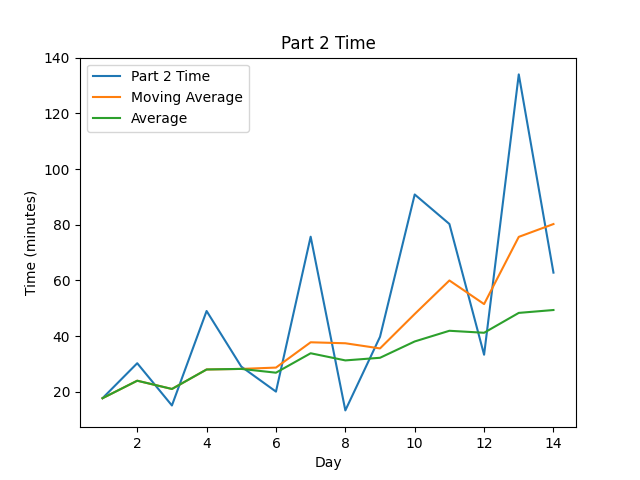
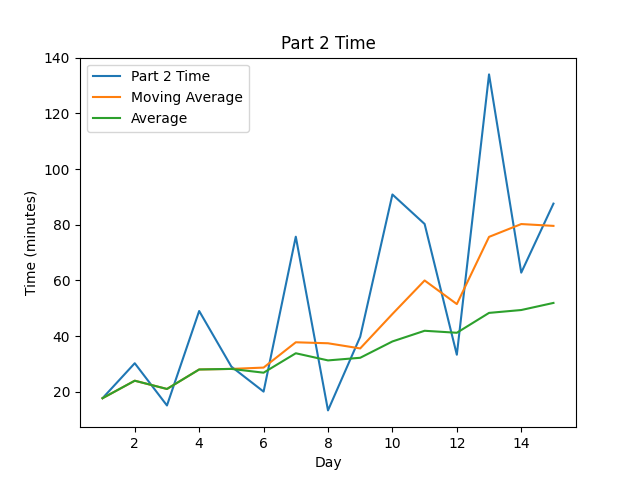
Day 15 ✅

diff --git a/src/day15/solution.ts b/src/day15/solution.ts
@@ -1,0 +1,21 @@
+import { inputAsNumArray } from '../utils/InputProcessor';
+
+const findMemAt = (input: number[], at: number): number => {
+  let lastNum = input[input.length - 1];
+  const lastSpoken = new Array(at);
+  input.forEach((val, i) => (lastSpoken[val] = i + 1));
+
+  for (let i = input.length; i < at; i++) {
+    const newNum = lastSpoken[lastNum] ? i - lastSpoken[lastNum] : 0;
+    lastSpoken[lastNum] = i;
+    lastNum = newNum;
+  }
+  return lastNum;
+};
+
+export const part1 = (input: number[]): number => findMemAt(input, 2020);
+
+export const part2 = (input: number[]): number => findMemAt(input, 30000000);
+
+const input = inputAsNumArray('src/day15/input.txt', ',');
+console.log(`Day 15:\n  Part 1:  ${part1(input)}\n  Part 2:  ${part2(input)}`);

diff --git a/src/day15/__tests__/dayTest.ts b/src/day15/__tests__/dayTest.ts
@@ -1,0 +1,21 @@
+import { part1, part2 } from '../solution';
+import { inputAsStringArray } from '../../utils/InputProcessor';
+
+const input = inputAsStringArray('src/day15/input.txt');
+
+const inputExample = [''];
+
+describe('day 15', () => {
+  it('should solve part 1 with example input', () => {
+    expect(part1(inputExample)).toBe(127);
+  });
+  it('should solve part 1 with my assigned input', () => {
+    expect(part1(input)).toBe(393911906);
+  });
+  it('should solve part 2 with example input', () => {
+    expect(part2(inputExample)).toBe(62);
+  });
+  it('should solve part 2 with my assigned input', () => {
+    expect(part2(input)).toBe(59341885);
+  });
+});

diff --git a/src/day15/README.md b/src/day15/README.md
@@ -1,0 +1,60 @@
+\--- Day 15: Rambunctious Recitation ---
+----------------------------------------
+
+You catch the airport shuttle and try to book a new flight to your vacation island. Due to the storm, all direct flights have been cancelled, but a route is available to get around the storm. You take it.
+
+While you wait for your flight, you decide to check in with the Elves back at the North Pole. They're playing a _memory game_ and are ever so excited to explain the rules!
+
+In this game, the players take turns saying _numbers_. They begin by taking turns reading from a list of _starting numbers_ (your puzzle input). Then, each turn consists of considering the _most recently spoken number_:
+
+*   If that was the _first_ time the number has been spoken, the current player says _`0`_.
+*   Otherwise, the number had been spoken before; the current player announces _how many turns apart_ the number is from when it was previously spoken.
+
+So, after the starting numbers, each turn results in that player speaking aloud either _`0`_ (if the last number is new) or an _age_ (if the last number is a repeat).
+
+For example, suppose the starting numbers are `0,3,6`:
+
+*   _Turn 1_: The `1`st number spoken is a starting number, _`0`_.
+*   _Turn 2_: The `2`nd number spoken is a starting number, _`3`_.
+*   _Turn 3_: The `3`rd number spoken is a starting number, _`6`_.
+*   _Turn 4_: Now, consider the last number spoken, `6`. Since that was the first time the number had been spoken, the `4`th number spoken is _`0`_.
+*   _Turn 5_: Next, again consider the last number spoken, `0`. Since it _had_ been spoken before, the next number to speak is the difference between the turn number when it was last spoken (the previous turn, `4`) and the turn number of the time it was most recently spoken before then (turn `1`). Thus, the `5`th number spoken is `4 - 1`, _`3`_.
+*   _Turn 6_: The last number spoken, `3` had also been spoken before, most recently on turns `5` and `2`. So, the `6`th number spoken is `5 - 2`, _`3`_.
+*   _Turn 7_: Since `3` was just spoken twice in a row, and the last two turns are `1` turn apart, the `7`th number spoken is _`1`_.
+*   _Turn 8_: Since `1` is new, the `8`th number spoken is _`0`_.
+*   _Turn 9_: `0` was last spoken on turns `8` and `4`, so the `9`th number spoken is the difference between them, _`4`_.
+*   _Turn 10_: `4` is new, so the `10`th number spoken is _`0`_.
+
+(The game ends when the Elves get sick of playing or dinner is ready, whichever comes first.)
+
+Their question for you is: what will be the _`2020`th_ number spoken? In the example above, the `2020`th number spoken will be `436`.
+
+Here are a few more examples:
+
+*   Given the starting numbers `1,3,2`, the `2020`th number spoken is `1`.
+*   Given the starting numbers `2,1,3`, the `2020`th number spoken is `10`.
+*   Given the starting numbers `1,2,3`, the `2020`th number spoken is `27`.
+*   Given the starting numbers `2,3,1`, the `2020`th number spoken is `78`.
+*   Given the starting numbers `3,2,1`, the `2020`th number spoken is `438`.
+*   Given the starting numbers `3,1,2`, the `2020`th number spoken is `1836`.
+
+Given your starting numbers, _what will be the `2020`th number spoken?_
+
+
+
+The first half of this puzzle is complete! It provides one gold star: \*
+
+\--- Part Two ---
+-----------------
+
+Impressed, the Elves issue you a challenge: determine the `30000000`th number spoken. For example, given the same starting numbers as above:
+
+*   Given `0,3,6`, the `30000000`th number spoken is `175594`.
+*   Given `1,3,2`, the `30000000`th number spoken is `2578`.
+*   Given `2,1,3`, the `30000000`th number spoken is `3544142`.
+*   Given `1,2,3`, the `30000000`th number spoken is `261214`.
+*   Given `2,3,1`, the `30000000`th number spoken is `6895259`.
+*   Given `3,2,1`, the `30000000`th number spoken is `18`.
+*   Given `3,1,2`, the `30000000`th number spoken is `362`.
+
+Given your starting numbers, _what will be the `30000000`th number spoken?_

diff --git a/README.md b/README.md
@@ -38,7 +38,8 @@ to do so, have every solution able to solve both parts in under a second on my 2
 |  12 | 00:14:16 ( 1665) (  0)     | 00:33:18 ( 1892) (  0)     |
 |  13 | 00:11:28 ( 2227) (  0)     | 02:14:02 ( 3522) (  0)     |
 |  14 | 00:39:28 ( 3708) (  0)     | 01:02:48 ( 2514) (  0)     |
-| Avg | 00:22:23 ( 3271) (  0)     | 00:49:22 ( 3340) (  0)     |
+|  15 | 00:31:30 ( 3604) (  0)     | 01:27:36 ( 5329) (  0)     |
+| Avg | 00:23:00 ( 3293) (  0)     | 00:51:55 ( 3473) (  0)     |
 
 
 <!--suppress CheckImageSize -->
